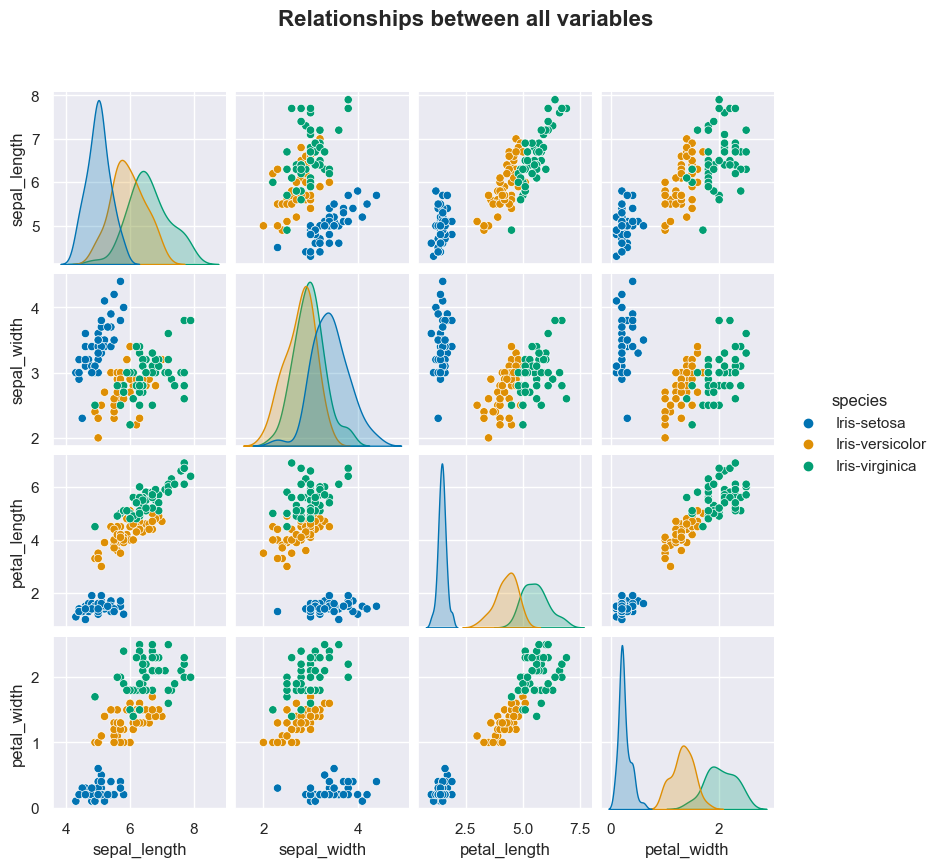
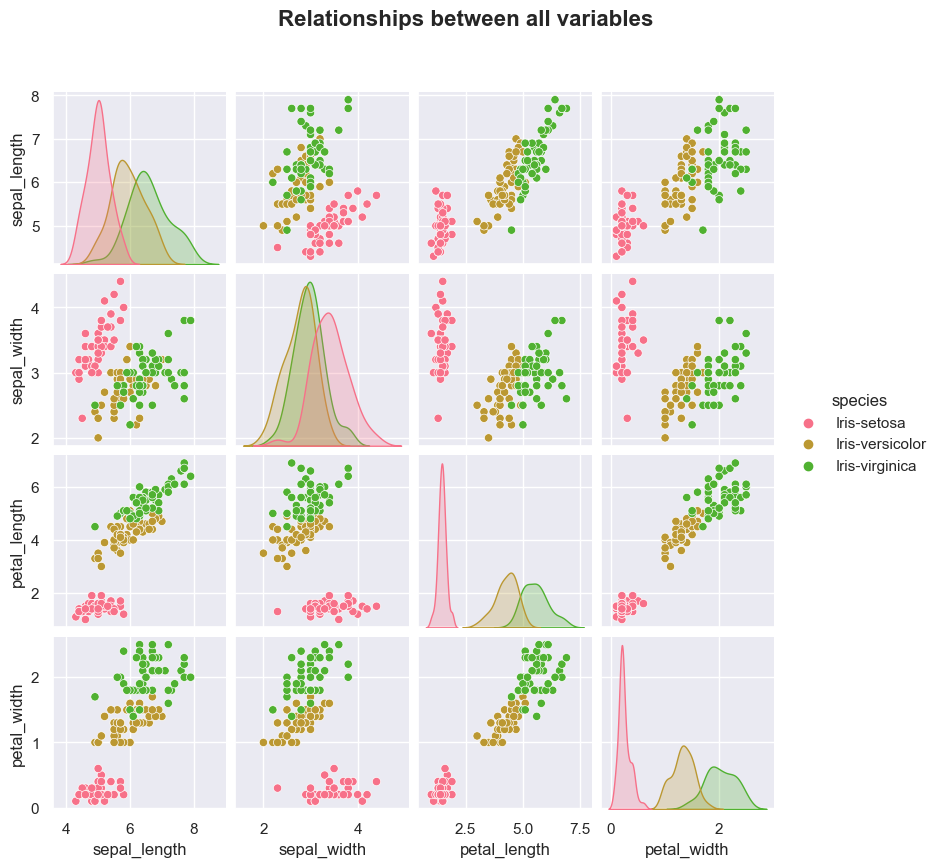
Updating plots - consistency is getting better

diff --git a/dataVis.py b/dataVis.py
@@ -95,8 +95,8 @@ def petal_sepal_width_relation():
 # Now Let's look at the attributes using a scatterplot within seaborn
 def pair_plots():
     # Set title below
-    sns.set(style="darkgrid")
-    pp = sns.pairplot(df, hue="species", height = 2, palette = 'colorblind')
+    sns.set(style="darkgrid", palette='husl')
+    pp = sns.pairplot(df, hue="species", height = 2)
     #pp.add_legend(title="Relationships between all pairs of variables")
     pp.fig.suptitle("Relationships between all variables", y=1.08, fontsize = 16, fontweight='bold')
     cn = ['setosa', 'versicolor', 'virginica']
